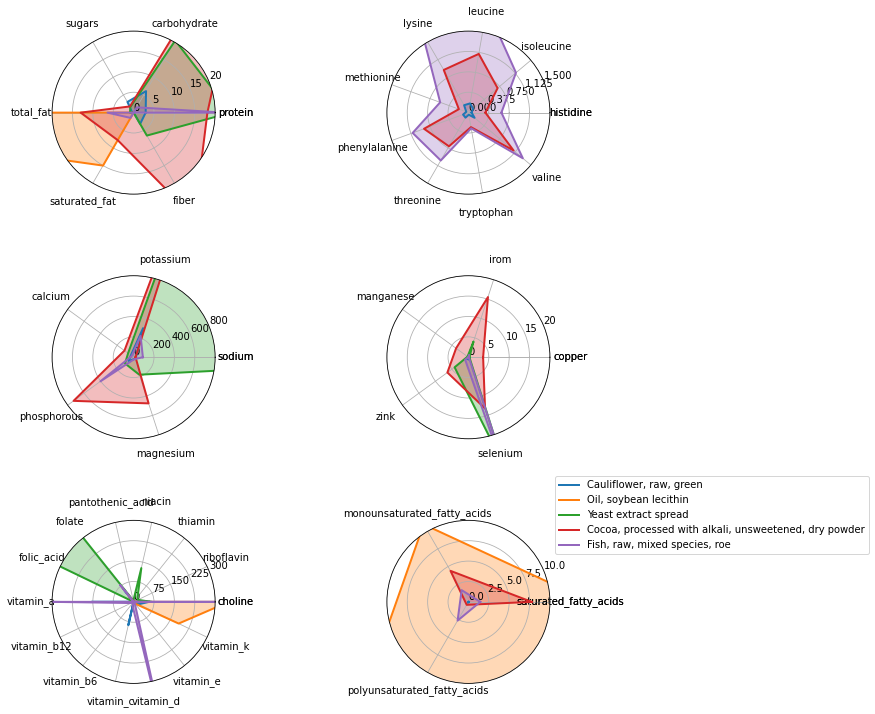
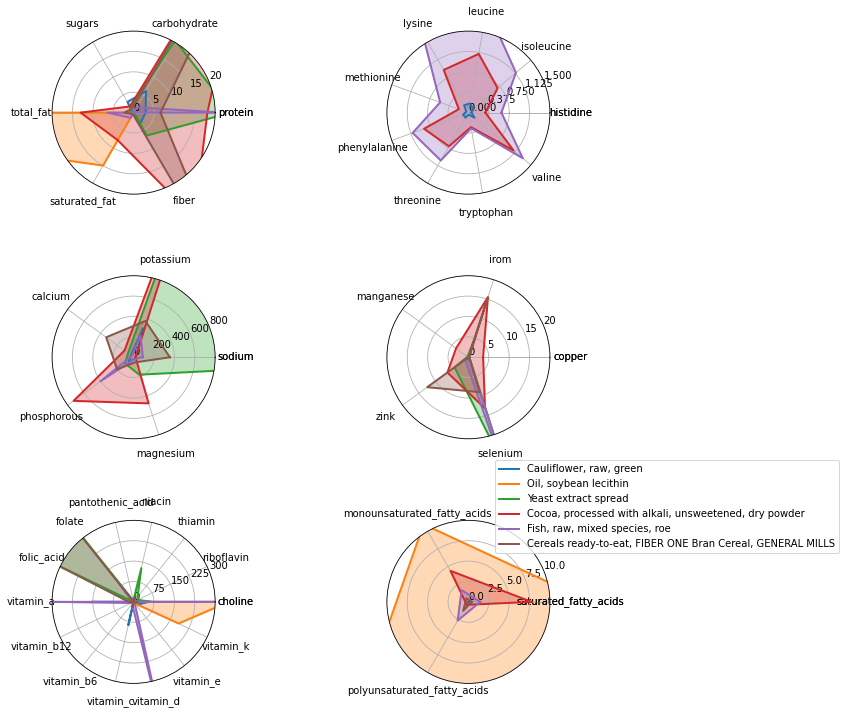
nutritionn optimization post

diff --git a/blog/nutrition.html b/blog/nutrition.html
@@ -145,8 +145,9 @@
                                 content; rather than fill these columns with, for example, the median value, I
                                 left these set to zero. In practice, I found the choice didn't significantly
                                 affect optimal diet results <a href="#footnote-1">[1]</a>.</p>
-                                <h2>Constraints</h2>
-                                <h2>Secondly, we need to establish the set of nutritional constraints. We can of
+
+                            <h2>Constraints</h2>
+                                <p>Secondly, we need to establish the set of nutritional constraints. We can of
                                     course set whatever constraints we want but to get the 'healthiest' ones is
                                     harder than it sounds since nutrition is a controversial topic and
                                     scientifically the field is underdeveloped; specific nutritional requirements
@@ -155,59 +156,60 @@
                                 food safety authority tolerable upper intake levels as upper limits for vitamins
                                 and minerals. Below is the full list of constraints. Not all nutritional
                                 features have constraints, and some only have a lower or upper limit.
-                                Unconstrained nutritional features are not listed below.</h2>
+                                Unconstrained nutritional features are not listed below.</p>
                                 <h3>Macros</h3>
-                                <p>50 &lt; total_fat (g) &lt; 120
-                                    10 &lt; saturated_fat (g) &lt; 25
-                                    70 &lt; protein (g) &lt; 100
+                                <p>50 &lt; total_fat (g) &lt; 120 <br>
+                                    10 &lt; saturated_fat (g) &lt; 25 <br>
+                                    70 &lt; protein (g) &lt; 100<br>
                                     130 &lt; carbohydrate (g) &lt; 400</p>
                                 <h3>Vitamins</h3>
-                                <p>550 &lt; choline (mg) &lt; 2500
-                                    400 &lt; folate (mcg) &lt; 900
-                                    400 &lt; folic_acid (mcg) &lt; 900
-                                    16 &lt; niacin (mg) &lt; 30
-                                    5 &lt; pantothenic_acid (mg) &lt; 100
-                                    1.3 &lt; riboflavin (mg) &lt; 500
-                                    1.2 &lt; thiamin (mg) &lt; 200
-                                    3000 &lt; vitamin_a (IU) &lt; 8000
-                                    2.4 &lt; vitamin_b12 (mcg) &lt; 8
-                                    1.3 &lt; vitamin_b6 (mg) &lt; 4
-                                    90 &lt; vitamin_c (mg) &lt; 1000
-                                    600 &lt; vitamin_d (IU) &lt; 5000
-                                    15 &lt; vitamin_e (mg) &lt; 500
+                                <p>550 &lt; choline (mg) &lt; 2500<br>
+                                    400 &lt; folate (mcg) &lt; 900<br>
+                                    400 &lt; folic_acid (mcg) &lt; 900<br>
+                                    16 &lt; niacin (mg) &lt; 30<br>
+                                    5 &lt; pantothenic_acid (mg) &lt; 100<br>
+                                    1.3 &lt; riboflavin (mg) &lt; 500<br>
+                                    1.2 &lt; thiamin (mg) &lt; 200<br>
+                                    3000 &lt; vitamin_a (IU) &lt; 8000<br>
+                                    2.4 &lt; vitamin_b12 (mcg) &lt; 8<br>
+                                    1.3 &lt; vitamin_b6 (mg) &lt; 4<br>
+                                    90 &lt; vitamin_c (mg) &lt; 1000<br>
+                                    600 &lt; vitamin_d (IU) &lt; 5000<br>
+                                    15 &lt; vitamin_e (mg) &lt; 500<br>
                                     120 &lt; vitamin_k (mcg) &lt; 500</p>
                                 <h3>Minerals</h3>
-                                <p>1500 &lt; sodium (mg) &lt; 3000
-                                    1300 &lt; calcium (mg) &lt; 2000
-                                    0.9 &lt; copper (mg) &lt; 7
-                                    8 &lt; iron (mg) &lt; 35
-                                    400 &lt; magnesium (mg) &lt; 500
-                                    2.3 &lt; manganese (mg) &lt; 7
-                                    700 &lt; phosphorous (mg) &lt; 3500
-                                    4700 &lt; potassium (mg) &lt; 7000
-                                    55 &lt; selenium (mcg) &lt; 300
+                                <p>1500 &lt; sodium (mg) &lt; 3000<br>
+                                    1300 &lt; calcium (mg) &lt; 2000<br>
+                                    0.9 &lt; copper (mg) &lt; 7<br>
+                                    8 &lt; iron (mg) &lt; 35<br>
+                                    400 &lt; magnesium (mg) &lt; 500<br>
+                                    2.3 &lt; manganese (mg) &lt; 7<br>
+                                    700 &lt; phosphorous (mg) &lt; 3500<br>
+                                    4700 &lt; potassium (mg) &lt; 7000<br>
+                                    55 &lt; selenium (mcg) &lt; 300<br>
                                     11 &lt; zinc (mg) &lt; 35</p>
                                 <h3>Amino Acids</h3>
-                                <p>0.287 &lt; cystine (g) &lt; inf
-                                    0.7 &lt; histidine (g) &lt; inf
-                                    1.4 &lt; isoleucine (g) &lt; inf
-                                    2.73 &lt; leucine (g) &lt; inf
-                                    2.1 &lt; lysine (g) &lt; inf
-                                    0.728 &lt; methionine (g) &lt; inf
-                                    0.875 &lt; phenylalanine (g) &lt; inf
-                                    1.05 &lt; threonine (g) &lt; inf
-                                    0.28 &lt; tryptophan (g) &lt; inf
-                                    0.875 &lt; tyrosine (g) &lt; inf
+                                <p>0.287 &lt; cystine (g) &lt; inf<br>
+                                    0.7 &lt; histidine (g) &lt; inf<br>
+                                    1.4 &lt; isoleucine (g) &lt; inf<br>
+                                    2.73 &lt; leucine (g) &lt; inf<br>
+                                    2.1 &lt; lysine (g) &lt; inf<br>
+                                    0.728 &lt; methionine (g) &lt; inf<br>
+                                    0.875 &lt; phenylalanine (g) &lt; inf<br>
+                                    1.05 &lt; threonine (g) &lt; inf<br>
+                                    0.28 &lt; tryptophan (g) &lt; inf<br>
+                                    0.875 &lt; tyrosine (g) &lt; inf<br>
                                     1.82 &lt; valine (g) &lt; inf</p>
                                 <h3>Carbohydrates</h3>
-                                <p>38 &lt; fiber (g) &lt; 55
+                                <p>38 &lt; fiber (g) &lt; 55<br>
                                     0 &lt; sugars (g) &lt; 40</p>
                                 <h3>Fatty Acids</h3>
                                 <p>17 &lt; polyunsaturated_fatty_acids (g) &lt; 30</p>
                                 <h3>Other</h3>
-                                <h2>50 &lt; cholesterol (mg) &lt; 250
-                                    0 &lt; alcohol (g) &lt; 5
-                                    100 &lt; water (g) &lt; 2000</h2>
+                                <p>50 &lt; cholesterol (mg) &lt; 250<br>
+                                    0 &lt; alcohol (g) &lt; 5<br>
+                                    100 &lt; water (g) &lt; 2000</p>
+                                <hr>
                                 <p>I disregarded constraints on calories and food weight for now since these will be
                                     included as part of the optimization objective. Healthy humans typically need
                                     1950 &lt; calories (kcal) &lt; 2500 and eat 3 &lt; weight (lbs) &lt; 5 of food
@@ -232,7 +234,7 @@
                                     cost function $c^Tx$ that assigns a 'cost' to each food in the diet. The optimal
                                     diet is then the one that minimizes the cost function while satisfying the
                                     nutritional constraints. But what should the 'cost' vector $c$ be?</p>
-                                <h2>There are a few options. We could define $c$ as the literal cost, the price of
+                                <p>There are a few options. We could define $c$ as the literal cost, the price of
                                     each food. Solving the resulting LP would find the cheapest diet that satisifes
                                     the nutritional constraints. This is pretty interesting, but unfortunately our
                                     dataset doesn't come with food prices -- they also presumably vary widely
@@ -241,10 +243,11 @@
                                     both. With the original objectives of this article in mind, to get the best of
                                     both worlds I'm going to tradeoff between both of these objectives; at the
                                     extreme ends of the tradeoff we get the optimal diets for each objective. The LP
-                                    is then:</h2>
-                                <p>Minimize $c^T\mathbf{x} + \gamma\mathcal{1}^T\mathbf{x}$</p>
-                                <h2>subject to $l \leq A\mathbf{x} \leq u$
-                                    $\mathbf{x} \geq 0$</h2>
+                                    is then:</p>
+                                    <hr>
+                                    <p>Minimize &emsp; $c^T\mathbf{x} + \gamma\mathcal{1}^T\mathbf{x}$</p>
+                                    <p>subject to &emsp; $l \leq A\mathbf{x} \leq u$, &ensp; $\mathbf{x} \geq 0$</p>
+                                    <hr>
                                 <p>where $c$ is the vector of calories per 100g, the ones vector $\mathcal{1}$ is
                                     the vector of weights in units of 100g, and $\gamma$ is the tradeoff variable.
                                     Interestingly, note that since $\mathbf{x} \geq 0$, the objective
@@ -272,36 +275,60 @@
                                     calories and weight is shown below.</p>
                                 <p><img src="../images/pareto.png" alt="pareto"></p>
                                 <p>And here is the optimal diet for $\gamma = 1$ with weight in units of 100g:</p>
-                                <p>Total calories: 871.1281429945614 kcal
+                                <p>Total calories: 871.1281429945614 kcal <br>
                                     Total weight: 1113.0965300000835 g</p>
-                                <h2>Weight (100g) Name</h2>
-                                <p>4.412183 Cauliflower, raw, green
-                                    1.453970 Watercress, raw
-                                    0.787405 Bamboo shoots, without salt, drained, boiled, cooked
-                                    0.657726 Chicken spread
-                                    0.588269 Cocoa, processed with alkali, unsweetened, dry powder
-                                    0.569966 Fish, raw, mixed species, roe
-                                    0.518734 Mushrooms, grilled, exposed to ultraviolet light, portabella
-                                    0.516959 Tofu, prepared with calcium sulfate, salted and fermented (fuyu)
-                                    0.506891 Cabbage, without salt, drained, boiled, cooked, chinese (pak-choi)
-                                    0.361921 Cereals ready-to-eat, FIBER ONE Bran Cereal, GENERAL MILLS
-                                    0.292224 Gelatin desserts, with aspartame, reduced calorie, dry mix
-                                    0.147996 Oil, soybean lecithin'
-                                    0.146714 Vitasoy USA Nasoya, Lite Silken Tofu
-                                    0.095675 Yeast extract spread
-                                    0.048087 Oil, wheat germ
-                                    0.023411 Mushrooms, raw, exposed to ultraviolet light, or crimini, italian,
-                                    brown
-                                    0.002834 Desserts, unsweetened, tablets, rennin</p>
+                                <h3>Weight (100g) &emsp; Name</h3>
+                                <p>4.412183 &emsp; Cauliflower, raw, green <br>
+                                    1.453970 &emsp; Watercress, raw <br>
+                                    0.787405 &emsp; Bamboo shoots, without salt, drained, boiled, cooked<br>
+                                    0.657726 &emsp; Chicken spread<br>
+                                    0.588269 &emsp; Cocoa, processed with alkali, unsweetened, dry powder<br>
+                                    0.569966 &emsp; Fish, raw, mixed species, roe<br>
+                                    0.518734 &emsp; Mushrooms, grilled, exposed to ultraviolet light, portabella<br>
+                                    0.516959 &emsp; Tofu, prepared with calcium sulfate, salted and fermented (fuyu)<br>
+                                    0.506891 &emsp; Cabbage, without salt, drained, boiled, cooked, chinese (pak-choi)<br>
+                                    0.361921 &emsp; Cereals ready-to-eat, FIBER ONE Bran Cereal, GENERAL MILLS<br>
+                                    0.292224 &emsp; Gelatin desserts, with aspartame, reduced calorie, dry mix<br>
+                                    0.147996 &emsp; Oil, soybean lecithin <br>
+                                    0.146714 &emsp; Vitasoy USA Nasoya, Lite Silken Tofu<br>
+                                    0.095675 &emsp; Yeast extract spread<br>
+                                    0.048087 &emsp; Oil, wheat germ<br>
+                                    0.023411 &emsp; Mushrooms, raw, exposed to ultraviolet light, or crimini, italian,
+                                    brown<br>
+                                    0.002834 &emsp; Desserts, unsweetened, tablets, rennin</p>
                                 <h3>Superfoods</h3>
-                                <p>Count of how many times foods appear in optimal diets.
+                                <p>To find out if there are any foods that are overrepresented in optimal diets,
+                                    below I show the count of how many appearances foods make in optimal diets in the sweep
+                                    of $\gamma$ values between [1e-1,1e4].
                                     <img src="../images/barplot.png" alt="food bar">
                                 </p>
+                                <p>Optimal diets tend to have between 10-20 foods,
+                                    with the set of all optimal diets containing only 50 foods.
+                                    Yeast extract spread (Marmite) and soybean lecithin are found in 100% of optimal diets
+                                    (albeit in small quantities) with cocoa powder, bran cereal, and fish roe not far behind.
+                                    The nutritional qualities of these foods, along with cauliflower (in 45% of optimal diets),
+                                    are visualized below.</p>
                                 <p><img src="../images/radar.png" alt="radar plot"></p>
                                 <h2>Potatoes and Milk</h2>
                                 <p>To return to the original inspiration for this article, can a diet of solely
-                                    potatoes and milk satisfy all of the nutritional constraints? The answer is
-                                    emphatically ...</p>
+                                    potatoes and milk satisfy all of the nutritional constraints? The answer, given the constraints
+                                    above, is no. Technically, potatoes alone are nutritionally 'complete' in the sense that they have non-zero
+                                    amounts of every constrained nutrient, however the ratio in which they manifest these nutrients doesn't fit the
+                                    constraints
+                                    for a healthy diet (e.g. potatoes are fairly high in sugars). Potatoes and milk are also far too low in vitamins E and
+                                    K, meaning you would have to eat
+                                    potentially lethal amounts to satisfy the constraints. Throwing in sweet potatoes helps, but still doesn't meet
+                                    the constraint requirements. Here is the diet I used to test the potatoes + milk hypothesis: </p>
+                                    
+                                    <p> Milk, with added vitamin A and vitamin D, regular, nonfat, dry <br>
+                                        Potatoes, dry form, granules without milk, dehydrated, mashed <br>
+                                        Potatoes, whole milk and butter added, home-prepared, mashed <br>
+                                        Potatoes, with salt, drained, boiled, cooked, whole, frozen <br>
+                                        Potatoes, without salt, flesh and skin, cooked in skin, microwaved <br>
+                                        Sweet Potatoes, salt added in processing, frozen as packaged, french fried </p>
+                                    
+                                    <p>An interesting follow up question is: what is the smallest possible addition to this diet to make it nutritionally
+                                        feasible?</p>
                                     <ol>
                                         <li id="footnote-1">Amino acid nutritional requirements are often filled by dense complete
                                             protein sources like soy in both cases.</li>
@@ -310,7 +337,7 @@
                                             on paper but only digest 70% of it, making it a suboptimal diet for you.</li>
                                             <li id="footnote-3">&quot;The Man from the Future: The Visionary Life of John von
                                                 Neumann&quot; Ananyo Bhattacharya 2021</li>
-                                            </ol>
+                                    </ol>
 
 
                         </td>
